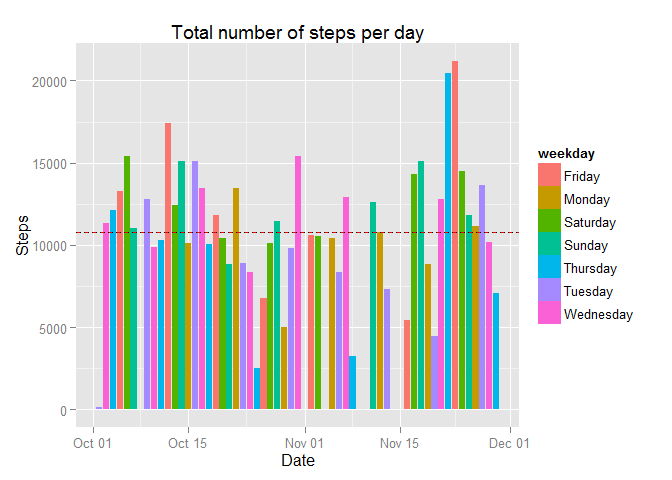
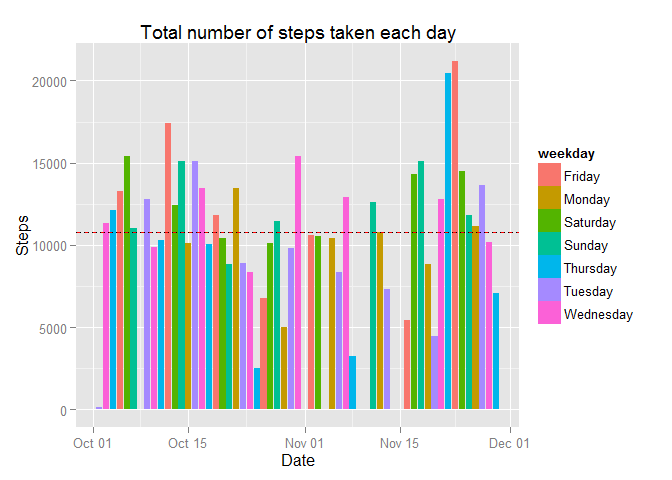
Answering the second question

Changed region(s): [[0.2188, 0.0312, 0.6875, 0.0938]]

diff --git a/PA1_template.html b/PA1_template.html
@@ -119,43 +119,13 @@ days.with.steps &lt;- step.data  %&gt;%
     filter(!is.na(steps)) %&gt;% 
     arrange(date) %&gt;%
     mutate(month.name=months(date), weekday=weekdays(date))
-print(days.with.steps)    </code></pre>
-<pre><code>## Source: local data frame [15,264 x 5]
-## 
-##    steps       date interval month.name weekday
-##    (int)     (date)    (int)      (chr)   (chr)
-## 1      0 2012-10-02        0    October Tuesday
-## 2      0 2012-10-02        5    October Tuesday
-## 3      0 2012-10-02       10    October Tuesday
-## 4      0 2012-10-02       15    October Tuesday
-## 5      0 2012-10-02       20    October Tuesday
-## 6      0 2012-10-02       25    October Tuesday
-## 7      0 2012-10-02       30    October Tuesday
-## 8      0 2012-10-02       35    October Tuesday
-## 9      0 2012-10-02       40    October Tuesday
-## 10     0 2012-10-02       45    October Tuesday
-## ..   ...        ...      ...        ...     ...</code></pre>
-<pre class="r"><code>totalsteps.per.day &lt;- days.with.steps  %&gt;% 
+# print(days.with.steps)    
+
+totalsteps.per.day &lt;- days.with.steps  %&gt;% 
     group_by(date) %&gt;%
     summarize(steps.total=sum(steps))
-
-totalsteps.per.day %&gt;% arrange(steps.total) %&gt;% print</code></pre>
-<pre><code>## Source: local data frame [53 x 2]
-## 
-##          date steps.total
-##        (date)       (int)
-## 1  2012-11-15          41
-## 2  2012-10-02         126
-## 3  2012-10-25        2492
-## 4  2012-11-08        3219
-## 5  2012-11-20        4472
-## 6  2012-10-29        5018
-## 7  2012-11-16        5441
-## 8  2012-10-26        6778
-## 9  2012-11-29        7047
-## 10 2012-11-13        7336
-## ..        ...         ...</code></pre>
-<pre class="r"><code>sum.steps.total &lt;- sum(totalsteps.per.day$steps.total)
+# print (totalsteps.per.day)
+sum.steps.total &lt;- sum(totalsteps.per.day$steps.total)
 mean.steps.total &lt;- mean(totalsteps.per.day$steps.total)
 median.steps.total &lt;- median(totalsteps.per.day$steps.total)</code></pre>
 <p>Took a <strong>total</strong> of 570,608 steps, with an <strong>average</strong> of 10,766 steps and a <strong>median</strong> value of 10,765 steps.</p>
@@ -163,11 +133,34 @@ median.steps.total &lt;- median(totalsteps.per.day$steps.total)</code></pre>
     geom_histogram(stat = 'identity') +
     geom_hline(aes(yintercept=mean.steps.total), color = 'red', linetype='dashed') +
     geom_hline(aes(yintercept=median.steps.total), color = 'black', linetype='dotted') +
-    labs(title = 'Total number of steps per day', x = 'Date', y = 'Steps')</code></pre>
[1 lines of base64/hex data omitted]
+    labs(title = 'Total number of steps taken each day', x = 'Date', y = 'Steps')</code></pre>
[1 lines of base64/hex data omitted]
 </div>
 <div id="what-is-the-average-daily-activity-pattern" class="section level2">
 <h2>What is the average daily activity pattern?</h2>
+<pre class="r"><code>average.by.time &lt;- days.with.steps %&gt;%
+    group_by(interval) %&gt;%
+    summarize(steps.average=mean(steps))
+
+print(tail(average.by.time))</code></pre>
+<pre><code>## Source: local data frame [6 x 2]
+## 
+##   interval steps.average
+##      (int)         (dbl)
+## 1     2330     2.6037736
+## 2     2335     4.6981132
+## 3     2340     3.3018868
+## 4     2345     0.6415094
+## 5     2350     0.2264151
+## 6     2355     1.0754717</code></pre>
+<pre class="r"><code># plot(average.by.time$interval, average.by.time$steps.average, type='l')
+ggplot(average.by.time, aes(x=interval, y=steps.average, color = interval)) +
+    geom_line() +  # line plot
+    theme(legend.position='none') +  # remove legend - I want the gradient but not the legend
+    labs(title='Average number of steps each 5-minute interval across all days',
+         x='5-minute intervals',
+         y='Average steps taken')</code></pre>
[1 lines of base64/hex data omitted]
 </div>
 <div id="imputing-missing-values" class="section level2">
 <h2>Imputing missing values</h2>

diff --git a/PA1_template.md b/PA1_template.md
@@ -82,54 +82,12 @@ days.with.steps <- step.data  %>%
     filter(!is.na(steps)) %>% 
     arrange(date) %>%
     mutate(month.name=months(date), weekday=weekdays(date))
-print(days.with.steps)    
-```
+# print(days.with.steps)    
 
-```
-## Source: local data frame [15,264 x 5]
-## 
-##    steps       date interval month.name weekday
-##    (int)     (date)    (int)      (chr)   (chr)
-## 1      0 2012-10-02        0    October Tuesday
-## 2      0 2012-10-02        5    October Tuesday
-## 3      0 2012-10-02       10    October Tuesday
-## 4      0 2012-10-02       15    October Tuesday
-## 5      0 2012-10-02       20    October Tuesday
-## 6      0 2012-10-02       25    October Tuesday
-## 7      0 2012-10-02       30    October Tuesday
-## 8      0 2012-10-02       35    October Tuesday
-## 9      0 2012-10-02       40    October Tuesday
-## 10     0 2012-10-02       45    October Tuesday
-## ..   ...        ...      ...        ...     ...
-```
-
-```r
 totalsteps.per.day <- days.with.steps  %>% 
     group_by(date) %>%
     summarize(steps.total=sum(steps))
-
-totalsteps.per.day %>% arrange(steps.total) %>% print
-```
-
-```
-## Source: local data frame [53 x 2]
-## 
-##          date steps.total
-##        (date)       (int)
-## 1  2012-11-15          41
-## 2  2012-10-02         126
-## 3  2012-10-25        2492
-## 4  2012-11-08        3219
-## 5  2012-11-20        4472
-## 6  2012-10-29        5018
-## 7  2012-11-16        5441
-## 8  2012-10-26        6778
-## 9  2012-11-29        7047
-## 10 2012-11-13        7336
-## ..        ...         ...
-```
-
-```r
+# print (totalsteps.per.day)
 sum.steps.total <- sum(totalsteps.per.day$steps.total)
 mean.steps.total <- mean(totalsteps.per.day$steps.total)
 median.steps.total <- median(totalsteps.per.day$steps.total)
@@ -140,21 +98,52 @@ with an **average** of 10,766 steps
 and a **median** value of 10,765 steps.
 
 
+
 ```r
 ggplot(days.with.steps, aes(x = date, y = steps, fill = weekday)) + 
     geom_histogram(stat = 'identity') +
     geom_hline(aes(yintercept=mean.steps.total), color = 'red', linetype='dashed') +
     geom_hline(aes(yintercept=median.steps.total), color = 'black', linetype='dotted') +
-    labs(title = 'Total number of steps per day', x = 'Date', y = 'Steps')
+    labs(title = 'Total number of steps taken each day', x = 'Date', y = 'Steps')
 ```
 
 ![](PA1_template_files/figure-html/unnamed-chunk-7-1.png) 
 
 
-
-
 ## What is the average daily activity pattern?
 
+```r
+average.by.time <- days.with.steps %>%
+    group_by(interval) %>%
+    summarize(steps.average=mean(steps))
+
+print(tail(average.by.time))
+```
+
+```
+## Source: local data frame [6 x 2]
+## 
+##   interval steps.average
+##      (int)         (dbl)
+## 1     2330     2.6037736
+## 2     2335     4.6981132
+## 3     2340     3.3018868
+## 4     2345     0.6415094
+## 5     2350     0.2264151
+## 6     2355     1.0754717
+```
+
+```r
+# plot(average.by.time$interval, average.by.time$steps.average, type='l')
+ggplot(average.by.time, aes(x=interval, y=steps.average, color = interval)) +
+    geom_line() +  # line plot
+    theme(legend.position='none') +  # remove legend - I want the gradient but not the legend
+    labs(title='Average number of steps each 5-minute interval across all days',
+         x='5-minute intervals',
+         y='Average steps taken')
+```
+
+![](PA1_template_files/figure-html/unnamed-chunk-8-1.png) 
 
 
 ## Imputing missing values
